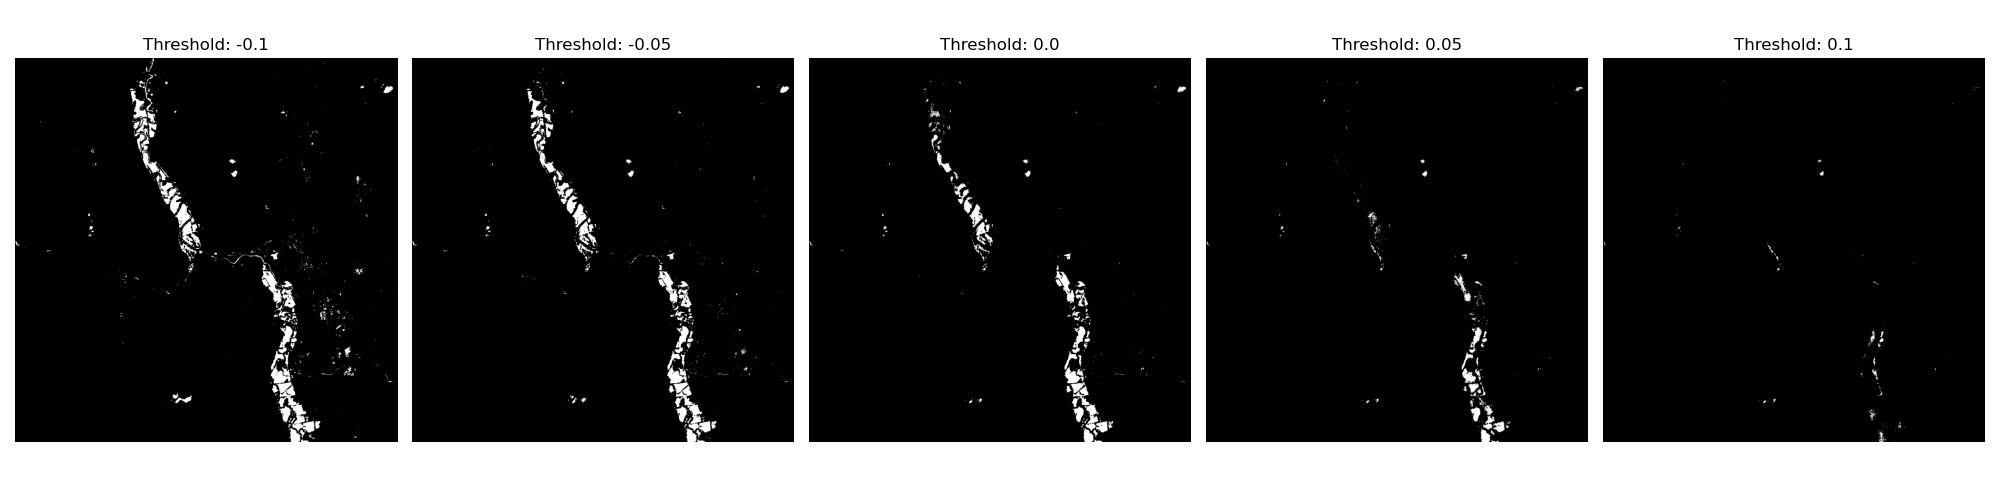
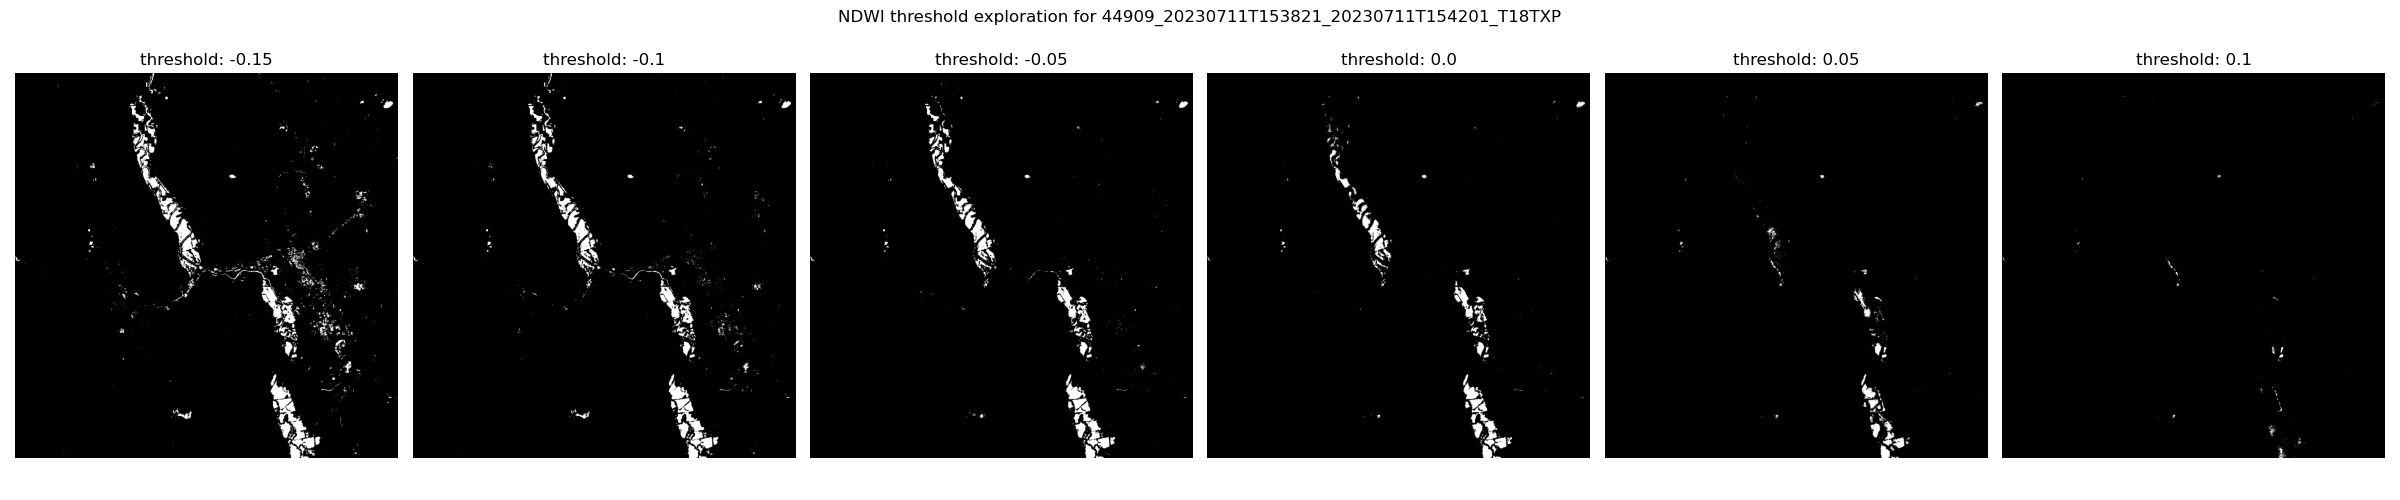
sentinel2 report part

diff --git a/REPORT.md b/REPORT.md
@@ -48,22 +48,42 @@ The filtered dataset consists of 102 Sentinel-2 True Color images, each paired w
 * [True Color](https://custom-scripts.sentinel-hub.com/custom-scripts/sentinel-2/composites/) - band combination of red (B04), green (B03), and blue (B02)
 
 #### Sentinel-2 True Color Imagery
-Initially, the downloaded images with their masks (CLOUD AND NDWI) are **379** images from 17 different flood events using 1107 flood event observations. However, after plotting the images of the first 5 observations from these flood events, some of the images are not ideal (reason to be added). After the examination, 2023-07 is selected as the flood event used for analysis and kmeans clustering. 
+Initially, 379 Sentinel-2 True Color images, along with their corresponding CLOUD and NDWI masks, were downloaded. These images represented 17 different flood events and were collected using 1107 flood event observations. However, after visualizing the first 5 observations, some images were found to be unsuitable for analysis (specific reasons to be added). Following this evaluation, the July 2023 flood event was selected for further analysis and K-means clustering.
 
-The ideal Sentinel-2 True Color image dataset includes **102** images, **25** of them are collected during flood events. After exploring the images, **10** of them shows notable flooded area using visual inspection. Their ids are 44909, 44929, 45067, 45237, 45321, 45358, 45427, 45501, MNTM3_114, TMVC3_39. 
+The refined dataset of ideal Sentinel-2 True Color images comprises 102 images, with 25 collected during flood events. Upon further exploration, 10 of these images were identified to show significant flooded areas through visual inspection. The IDs of these images are 44909, 44929, 45067, 45237, 45321, 45358, 45427, 45501, MNTM3_114, and TMVC3_39. 
 
 Below is a table showing some of the collected images.
-| \ | **Figure** |
+| \ | **Figure** | **Note** |
+|---|---|---|
+| **44909** | <img src="figs/s2_ready/44909_s2_ready.png" width="500"> | from STN high-water marks |
+| **44929** | <img src="figs/s2_ready/44929_s2_ready.png" width="500">| from STN high-water marks |
+| **45358** | <img src="figs/s2_ready/45358_s2_ready.png" width="500"> | from STN high-water marks |
+| **TMVC3_39** | <img src="figs/s2_ready/TMVC3_39_s2_ready.png" width="500"> | from Gauge high-water levels |
+| **Some of removed ids and images** | <img src="figs/s2_selected/CLMM3_97_s2_selected.png" width="500"> <img src="figs/s2_vis_inspect/AUBM1_59_s2.png" width="500">| In the top image set, The image with date 20230706 is dropped due to the cloud cover. In the bottom image set, even though the river is brown. The color similarity indicates that it's not an ideal image for this project. |
+
+####  Cloud Masks and NDWI Masks (from Earth Engine)
+When downloading Sentinel-2 images, [s2cloudless](https://developers.google.com/earth-engine/tutorials/community/sentinel-2-s2cloudless) is utilized to extract the cloud and shadow mask. This step is included to drop the cloud and shadow pixels in Kmeans clustering algorithm. The cloud masked created using the s2cloudless algorithm can be affected by high reflectance which is demonstrated below.
+
+Below is a table showing the cloud masks.
+| \ | **True Color** | **Cloud Mask** |
+|---|---|---|
+| **44909** | <img src="figs/s2/44909_20230711T153821_20230711T154201_T18TXP_VIS_s2.png" width="500"> | <img src="figs/s2/44909_20230711T153821_20230711T154201_T18TXP_VIS_cloud.png" width="500"> |
+| **44929** | <img src="figs/s2/44929_20230711T153821_20230711T154201_T18TXN_VIS_s2.png" width="500">| <img src="figs/s2/44929_20230711T153821_20230711T154201_T18TXN_VIS_cloud.png" width="500"> |
+
+Also, NDWI mask is collected when downloading Sentinel-2 images. After that, the NDWI threshold is selected by comparison. Below is a table showing the threshold selection. The selected threshold is -0.1.
+| \ | **NDWI thresholds**| 
 |---|---|
-| **44909** | <img src="figs/s2_ready/44909_s2_ready.png" width="500"> |
-| **44929** | <img src="figs/s2_ready/44929_s2_ready.png" width="500">|
-| **45358** | <img src="figs/s2_ready/45358_s2_ready.png" width="500"> |
-| **TMVC3_39** | <img src="figs/s2_ready/TMVC3_39_s2_ready.png" width="500"> |
-| **Some of removed ids and images** | <img src="figs/s2_selected/CLMM3_97_s2_selected.png" width="500"> <img src="figs/s2_vis_inspect/AUBM1_59_s2.png" width="500">|
+| **44909** | <img src="figs/s2_ndwi/44909_20230711T153821_20230711T154201_T18TXP_NDWI_test.png"> |
+| **44929** | <img src="figs/s2_ndwi/44929_20230711T153821_20230711T154201_T18TXN_NDWI_test.png"> |
 
-### Satellite Imagery Data (Sentinel 2) - TODO
-In this section, I added the results for two flood event observations.
+#### Flowline Masks
+Flowlines from NHD is introduced to help identify the flooded areas and enhance KMeans clustering performance. In this project, the focus is major rivers based on the visual inspection. Therefore, the major rivers are selected from flowlines. However, there might be a better approach to idetify major rivers. 
 
+| \ | **Flowline**| **Major River** |
+|---|---|---|
+| **44909** | <img src="figs/flowline_no_filter.png"> | <img src="figs/s2/44909_20230711T153821_20230711T154201_T18TXP_VIS_s2_flowline.png"> |
+
+### KMeans Clustering Result
 #### 44909
 Below is the plotted figure before optimization.
 ![KMeans clustering before optimization](./figs/kmeans_default/44909_20230711_during%20flood_s2_default.png)
